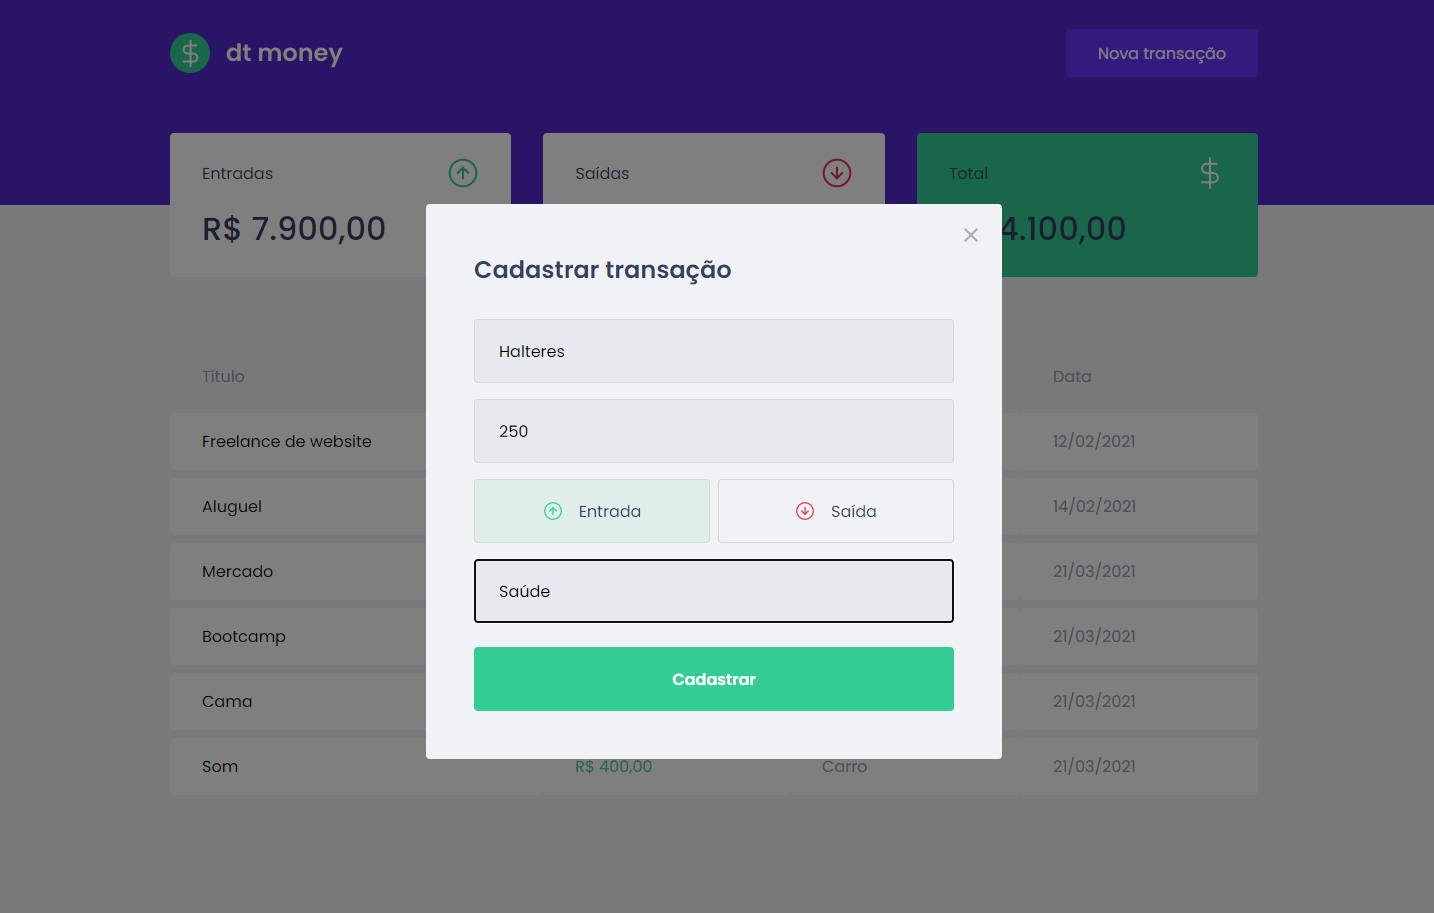
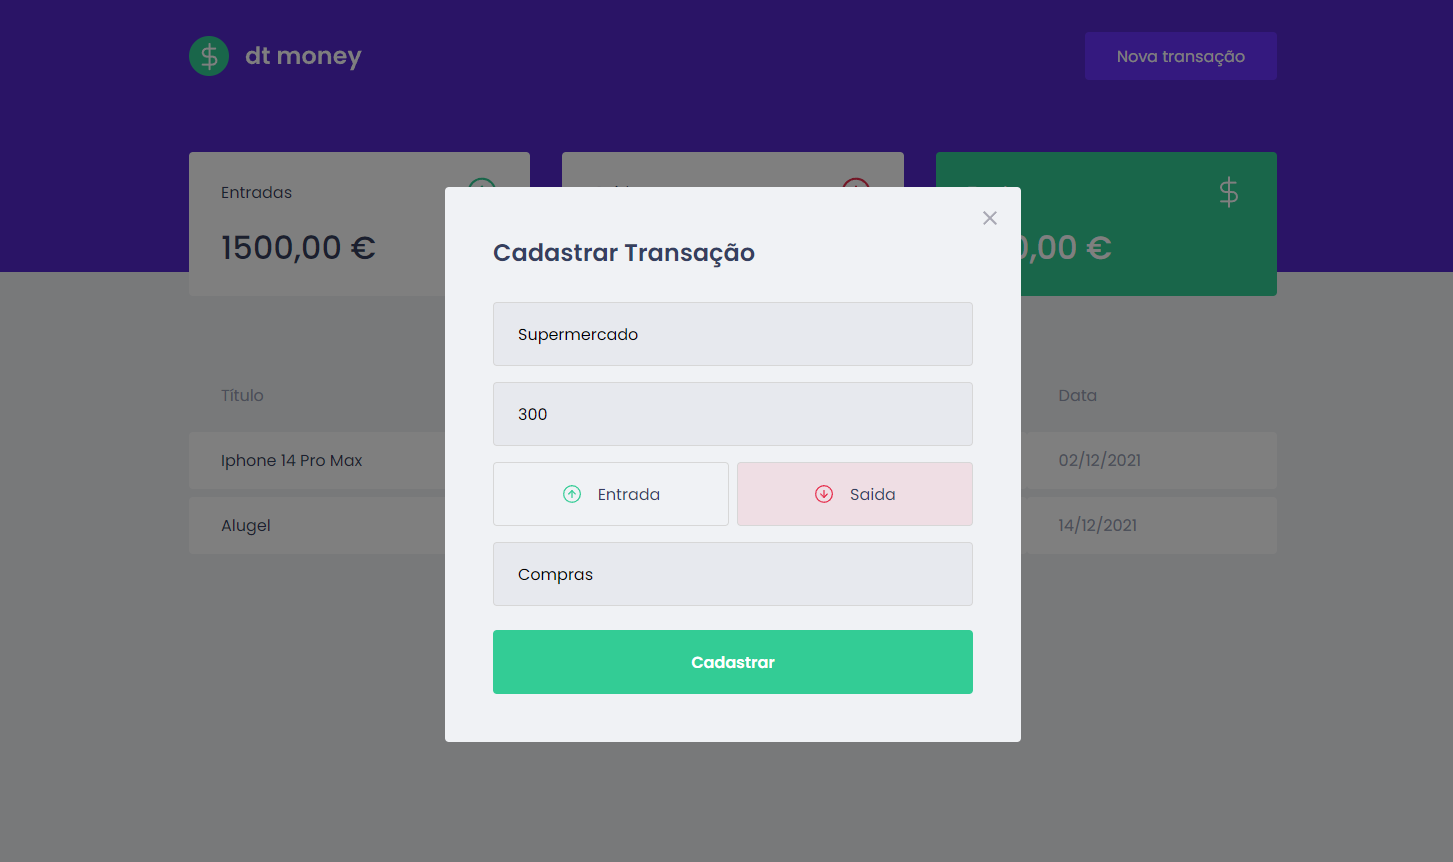
Contextos e hooks

diff --git a/src/components/NewTransactionModal/index.tsx b/src/components/NewTransactionModal/index.tsx
@@ -1,33 +1,42 @@
-import { FormEvent,useState } from 'react'
+import { FormEvent,useState} from 'react'
 import Modal from 'react-modal'
+import { useTransactions } from '../../hooks/useTransactions'
+
 import closeImg from '../../assets/close.svg'
 import incomeImg from '../../assets/income.svg'
 import outcomeImg from '../../assets/outcome.svg'
-import { api } from '../../services/api'
 
 import { Container, TransactionTypeContainer, RadioBox } from './style'
+
 
 interface NewTransactionModalProps{
   isOpen:boolean;
   onRequestClose: () => void;
 }
 export function NewTransactionModal({isOpen, onRequestClose}: NewTransactionModalProps){
+  const {createTransaction} = useTransactions()
+
   const [title,setTitle] = useState('');
   const [category, setCategory] = useState('');
-  const [value, setValue] = useState(0);
+  const [amount, setAmount] = useState(0);
   const [type, setType] = useState('deposit');
 
-  function handleCreateNewTransaction(event: FormEvent) {
+  async function handleCreateNewTransaction(event: FormEvent) {
     event.preventDefault();
     
-    const data ={
-      title,
-      value,
-      category, 
-      type
-    }
+    await createTransaction({
+      title, 
+      amount,
+      category,
+      type,
+    })
 
-    api.post('transactions', data)
+    setTitle('');
+    setAmount(0);
+    setCategory('');
+    setType('deposit');
+
+    onRequestClose();
   }
  
   return(
@@ -56,15 +65,15 @@ export function NewTransactionModal({isOpen, onRequestClose}: NewTransactionModa
         <input
           type="number"
           placeholder="Valor"
-          value={value}
-          onChange={event => setValue(Number(event.target.value))}
+          value={amount}
+          onChange={event => setAmount(Number(event.target.value))}
         />
 
         <TransactionTypeContainer>
           <RadioBox
             type="button"
             onClick={() => {setType('deposit');}}
-            isActive={type === 'deposit'}
+            isActive={type ==='deposit'}
             activeColor="green"
           >
             <img src={incomeImg} alt="Entrada" />

diff --git a/src/components/Summary/index.tsx b/src/components/Summary/index.tsx
@@ -1,19 +1,43 @@
 import incomeImg from '../../assets/income.svg';
 import outcomeImg from '../../assets/outcome.svg';
 import totalImg from '../../assets/total.svg';
-
+import { useTransactions } from '../../hooks/useTransactions';
 
 import { Container } from "./styles";
 
 export function Summary(){
+  const {transactions} = useTransactions();
+
+  const summary = transactions.reduce((acc, transaction) =>{
+
+    console.log(transaction)
+    if (transaction.type === 'deposit'){
+      acc.deposits += transaction.amount;
+      acc.total += transaction.amount;
+    }else{
+      acc.withdraws += transaction.amount;
+      acc.total -= transaction.amount;
+    }
+
+    return acc;
+  }, {
+    deposits: 0,
+    withdraws: 0,
+    total: 0,
+  })
   return(
-    <Container>
-      <div>
+    <Container>  
+     <div>
         <header>
           <p>Entradas</p>
           <img src={incomeImg} alt="Entradas"/>
         </header>
-        <strong>1000,00 €</strong>
+        <strong>
+          {new Intl.NumberFormat('pt-PT',{
+            style:'currency',
+            currency: 'EUR'
+          }).format(summary.deposits)}
+        </strong>
       </div>
 
       <div>
@@ -21,7 +45,13 @@ export function Summary(){
           <p>Saidas</p>
           <img src={outcomeImg} alt="Saidas"/>
         </header>
-        <strong>- 500,00 €</strong>
+        <strong>
+          - 
+          {new Intl.NumberFormat('pt-PT',{
+            style:'currency',
+            currency: 'EUR'
+          }).format(summary.withdraws)}
+        </strong>
       </div>
 
       <div className="highlight-background">
@@ -29,7 +59,12 @@ export function Summary(){
           <p>Total</p>
           <img src={totalImg} alt="Total"/>
         </header>
-        <strong>500,00 €</strong>
+        <strong>
+          {new Intl.NumberFormat('pt-PT',{
+            style:'currency',
+            currency: 'EUR'
+          }).format(summary.total)}
+        </strong>
       </div>
     </Container>
   )

diff --git a/src/hooks/useTransactions.tsx b/src/hooks/useTransactions.tsx
@@ -1,0 +1,60 @@
+import {createContext, useEffect, useState, ReactNode, useContext} from 'react'
+import { api } from '../services/api';
+
+interface Transaction{
+  id:number;
+  type:string;
+  title:string;
+  amount:number;
+  category:string;
+  createdAt:string;
+}
+
+type TransactionInput = Omit<Transaction, 'id' | 'createdAt'>;
+
+interface TransactionsProviderProps{
+  children:ReactNode;
+}
+
+interface TransactionsContextData{
+  transactions:Transaction[];
+  createTransaction: (transaction:TransactionInput) => Promise<void>;
+}
+
+const TransactionsContext = createContext<TransactionsContextData>(
+  {} as TransactionsContextData
+);
+
+export function TransactionsProvider({children}: TransactionsProviderProps){
+  const [transactions,setTransaction] = useState<Transaction[]>([]);
+
+  useEffect(() =>{
+    api.get('/transactions')
+      .then(response => setTransaction(response.data.transactions))
+  },[]);
+
+  async function createTransaction(transactionInput:TransactionInput){
+  const response = await api.post('transactions',{
+    ...transactionInput,
+    createdAt: new Date(),
+  });
+  const {transaction}  = response.data;
+
+  setTransaction([
+    ...transactions,
+    transaction
+  ]);
+  }
+
+  return(
+    <TransactionsContext.Provider value={{transactions, createTransaction}}>
+      {children}
+    </TransactionsContext.Provider>
+  );
+}
+
+export function useTransactions(){
+  const context = useContext(TransactionsContext);
+
+  return(context)
+}

diff --git a/src/App.tsx b/src/App.tsx
@@ -4,6 +4,7 @@ import { Dashboard } from "./components/Dashboard";
 import { Header } from "./components/Header";
 import { GlobalStyle } from "./styles/global";
 import { NewTransactionModal } from './components/NewTransactionModal';
+import { TransactionsProvider } from './hooks/useTransactions';
 
 Modal.setAppElement('#root')
 
@@ -17,14 +18,17 @@ export function App() {
     setIsNewTransactionModalOpen(false)
   }
   return (
-    <>
+    <TransactionsProvider>
       <Header onOpenNewTransitionModal={handleOpenNewTransactionModal} />
+
       <Dashboard/>
+      
       <NewTransactionModal
         isOpen={isNewTransactionModalOpen}
         onRequestClose={handleCloseNewTransactionModal}
       />
+      
       <GlobalStyle />
-    </>
+    </TransactionsProvider>
   );
 }

diff --git a/src/components/TransactionsTable/index.tsx b/src/components/TransactionsTable/index.tsx
@@ -1,24 +1,10 @@
-import { useEffect, useState } from "react";
-import { api } from "../../services/api";
+import { useTransactions } from "../../hooks/useTransactions";
+
 import { Container } from "./styles";
 
-interface Transaction{
-  id:number;
-  type:string;
-  title:string;
-  amount:number;
-  category:string;
-  createdAt:string;
-}
-
 export function TransactionsTable(){
-  const [transactions,setTransaction] = useState<Transaction[]>([]);
-
-  useEffect(() =>{
-    api.get('/transactions')
-      .then(response => setTransaction(response.data.transactions))
-  },[]);
-
+  const {transactions} = useTransactions();
+ 
   return (
     <Container>
       <table>

diff --git a/src/index.tsx b/src/index.tsx
@@ -14,7 +14,7 @@ createServer({
       {
        id:1,
        title: 'Iphone 14 Pro Max',
-       type: ' deposit',
+       type: 'deposit',
        category: 'Phone',
        amount : 1500,
        createdAt: new Date('2021-12-02 09:00:00'),
